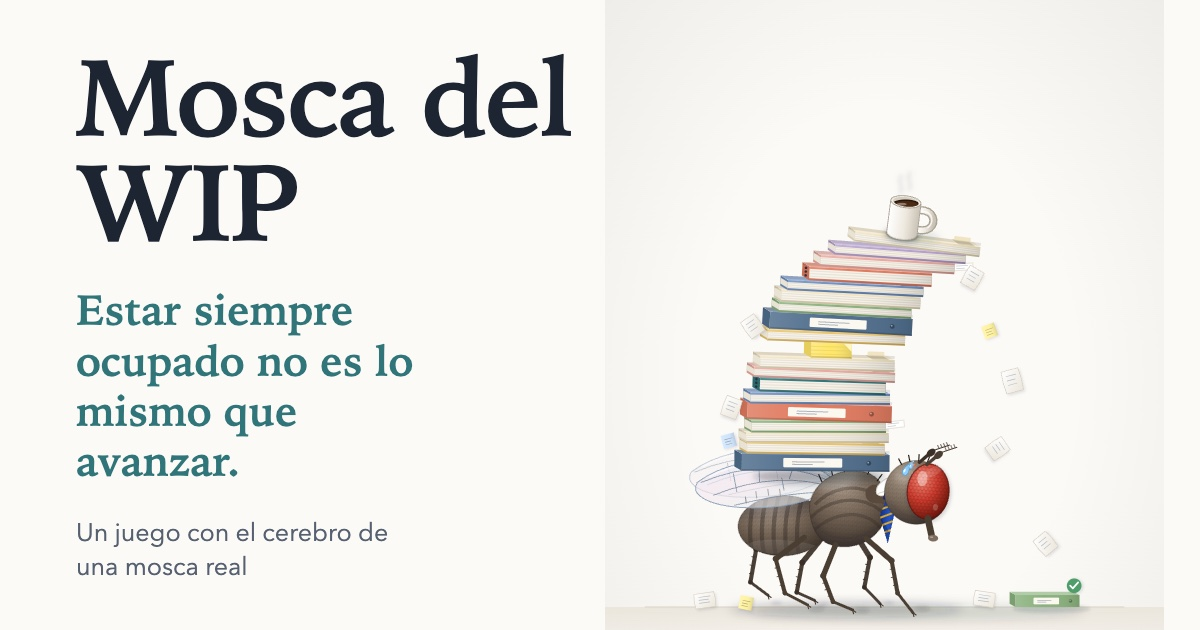
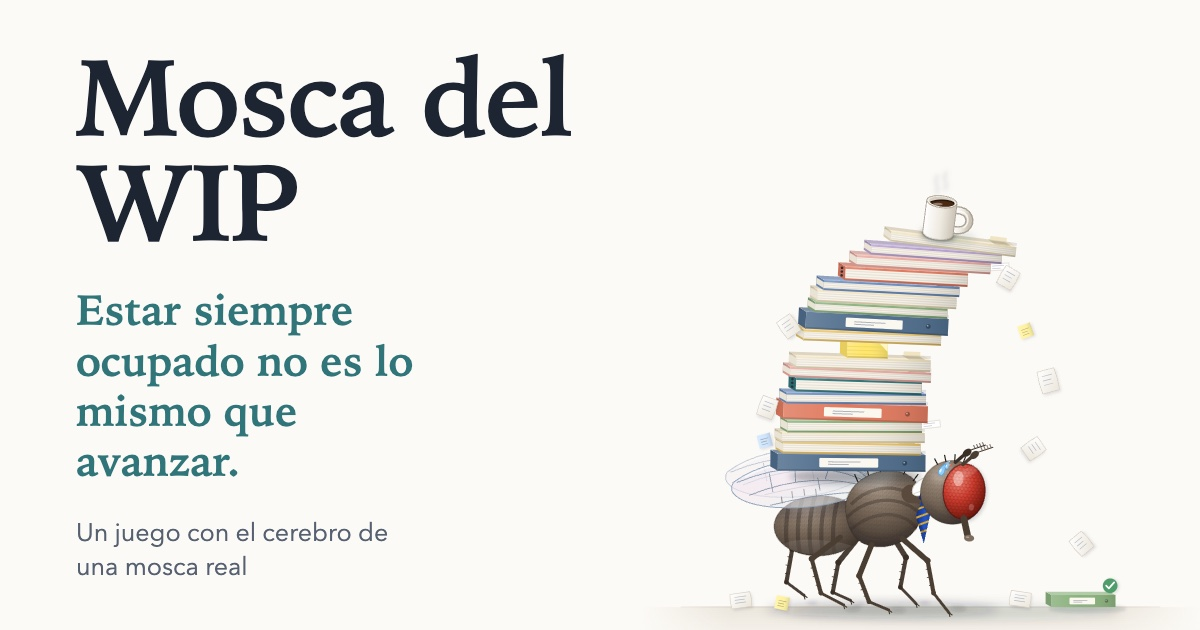
Etapa 5.1: tres arreglos de la portada pedidos por Felipe
- La ilustración ya no se ve en un recuadro: public/img/portada-torre.svg es
  una versión web que genera scripts/portada-svg-web.mjs desde la del informe
  (sin viñeta de fondo, piso desvanecido en los costados). La del informe no
  cambió.
- Vista previa 1200x630 sin la franja clara: la ilustración llega al borde
  derecho; imagen regenerada.
- Celular: el botón "Descargar el informe (PDF)" va justo después de la
  presentación (movido, no duplicado) y la ilustración centrada, a todo el
  ancho, debajo del botón.
- Capturas arreglos-* en docs/etapa5-1-capturas/; docs/etapa5-1.md,
  PROGRESO.md y CLAUDE.md al día. PDF del botón confirmado = v17.

Changed region(s): [[0.5858, 0.3016, 0.8633, 0.9952], [0.8325, 0.9048, 0.9558, 0.9952], [0.4933, 0.9651, 0.555, 0.9952]]

diff --git a/src/portada.css b/src/portada.css
@@ -86,8 +86,10 @@ h1 {
 .nota { font-size: 14.5px; color: var(--suave); margin: 14px 0 0; }
 
 /* La ilustración es la portada del informe (hoja vertical con aire arriba para
-   el título). Aquí se recorta ese aire: se ve desde la taza de café hasta el
-   piso, con object-fit. */
+   el título), en su versión para la web: sin viñeta de fondo y con el piso
+   desvanecido en los costados (scripts/portada-svg-web.mjs), así se funde con
+   el papel de la página. Aquí se recorta el aire de arriba: se ve desde la taza
+   de café hasta el piso, con object-fit. */
 .hero-arte { margin: 0; justify-self: end; width: 100%; }
 .hero-arte img { display: block; width: 100%; height: auto; aspect-ratio: 840 / 900; object-fit: cover; object-position: 50% 80%; }
 
@@ -143,12 +145,17 @@ section p:last-child { margin-bottom: 0; }
 @media (max-width: 899px) {
   body.portada { font-size: 17px; }
   main { padding: 0 20px; }
-  .hero { grid-template-columns: 1fr; gap: 18px; padding: 24px 0 12px; }
-  .hero-arte { order: -1; justify-self: start; width: auto; }
-  .hero-arte img { width: 236px; }
+  .hero { grid-template-columns: 1fr; gap: 22px; padding: 28px 0 12px; }
   h1 { font-size: 46px; margin-bottom: 12px; }
   .lema { font-size: 22px; max-width: none; margin-bottom: 14px; }
-  .que-es { margin-bottom: 4px; }
+  .que-es { margin-bottom: 22px; }
+  /* En celular el botón del informe es el principal (el juego no se juega bien
+     ahí) y va justo después de la presentación; "Jugar igual" queda más abajo. */
+  .hero .acciones { display: block; }
+  .hero .boton { width: 100%; background: var(--tinta); color: var(--papel); font-size: 18px; }
+  .hero .boton:hover { background: var(--tinta-hover); color: var(--papel); }
+  /* La ilustración pasa debajo del botón, a todo el ancho y centrada. */
+  .hero-arte { justify-self: center; width: 100%; max-width: 440px; margin-top: 4px; }
   .solo-computador { display: none !important; }
   .solo-celular { display: block; }
 
@@ -157,7 +164,6 @@ section p:last-child { margin-bottom: 0; }
   .tele video { display: block; width: 100%; aspect-ratio: 16 / 9; border-radius: 8px; background: #0b0f16; }
   .tele figcaption { color: #cfd6e0; font-size: 14px; padding: 10px 6px 2px; }
   .celular .acciones { gap: 10px 18px; }
-  .celular .boton.principal { width: 100%; }
   .enlace-jugar { display: inline-flex; align-items: center; min-height: 44px; padding: 0 6px; font-weight: 600; }
 
   section { padding: 32px 0; }

diff --git a/index.html b/index.html
@@ -39,11 +39,11 @@
             tiene abiertas a la vez y miras qué le pasa cuando son demasiadas: cuánto termina,
             cuánto se estresa y cuántas veces sale a fumar.
           </p>
-          <div class="acciones solo-computador">
-            <a class="boton principal" href="/jugar/">Jugar</a>
+          <div class="acciones">
+            <a class="boton principal solo-computador" href="/jugar/">Jugar</a>
             <a class="boton" href="/Mosca-del-WIP-Informe.pdf" download="Mosca del WIP - Informe.pdf">Descargar el informe (PDF)</a>
           </div>
-          <p class="nota solo-computador">Gratis y sin registro.</p>
+          <p class="nota">Gratis y sin registro.</p>
         </div>
         <figure class="hero-arte">
           <img src="/img/portada-torre.svg" width="840" height="1188" alt="Una mosca con corbata y una gota de sudor carga una torre de carpetas que se inclina y suelta hojas. En el suelo hay una sola carpeta terminada." />
@@ -61,7 +61,6 @@
           <figcaption>Primero con 2 tareas a la vez. Después con 9.</figcaption>
         </figure>
         <div class="acciones">
-          <a class="boton principal" href="/Mosca-del-WIP-Informe.pdf" download="Mosca del WIP - Informe.pdf">Descargar el informe (PDF)</a>
           <a class="enlace-jugar" href="/jugar/">Jugar igual</a>
         </div>
         <p class="nota">Si lo intentas, gira el celular.</p>

diff --git a/docs/contexto/vista-previa.html b/docs/contexto/vista-previa.html
@@ -12,7 +12,8 @@
   h1 { font-family: 'Iowan Old Style', Charter, Georgia, serif; font-weight: 700; font-size: 108px; line-height: 0.98; letter-spacing: -0.02em; margin: 0 0 28px; }
   .lema { font-family: 'Iowan Old Style', Charter, Georgia, serif; font-weight: 700; font-size: 42px; line-height: 1.2; color: #2f7579; margin: 0 0 30px; max-width: 14ch; }
   .sub { font-size: 25px; line-height: 1.35; color: #556070; margin: 0; max-width: 24ch; }
-  .arte { position: absolute; right: 36px; top: -58px; height: 790px; width: auto; }
+  /* La ilustración (versión web, sin viñeta) llega hasta el borde derecho. */
+  .arte { position: absolute; right: 0; top: -58px; height: 790px; width: auto; }
 </style>
 </head>
 <body>
